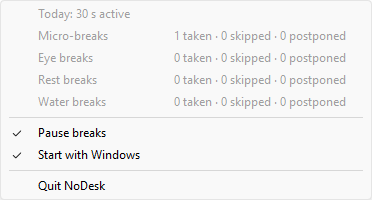
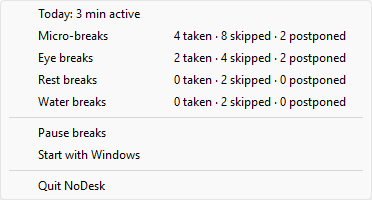
docs(site): show the current break screens and tray menu
Screenshots on the landing page and in the README now come from the final
build: the eye and micro pair, a rest break, three kinds sharing one screen
and the full-contrast tray menu.

diff --git a/site/index.html b/site/index.html
@@ -65,9 +65,9 @@
       <section id="screens" class="wrap">
         <h2>What you see</h2>
         <div class="gallery">
-          <figure class="shot"><img src="/shots/rest.png" width="1040" height="585" loading="lazy" alt="Hourly rest break merged with micro and eye breaks, with a tip to stand up and walk" /><figcaption>Rest break, hourly. Covers micro and eye breaks due at the same time.</figcaption></figure>
-          <figure class="shot"><img src="/shots/water.png" width="1040" height="585" loading="lazy" alt="Water break with a tip to drink some water" /><figcaption>Water break, every 45 minutes of work.</figcaption></figure>
-          <figure class="shot menu"><img src="/shots/tray-menu.png" width="372" height="200" loading="lazy" alt="Tray menu with today's active time, breaks per kind, Pause breaks and Start with Windows" /><figcaption>Right-click the tray icon for today's stats, Pause and Start with Windows.</figcaption></figure>
+          <figure class="shot"><img src="/shots/rest.png" width="1040" height="585" loading="lazy" alt="Rest break: five minute countdown with a tip to walk and stretch your legs" /><figcaption>Rest break, every hour of work: five minutes away from the desk.</figcaption></figure>
+          <figure class="shot"><img src="/shots/water.png" width="1040" height="585" loading="lazy" alt="Eye, micro and water breaks due together on one screen, each with its own tip" /><figcaption>Breaks due together share one screen, each kind in its own colour.</figcaption></figure>
+          <figure class="shot menu"><img src="/shots/tray-menu.png" width="372" height="200" loading="lazy" alt="Tray menu with today's active time, breaks taken, skipped and postponed per kind, Pause breaks and Start with Windows" /><figcaption>Right-click the tray icon for today's stats, Pause and Start with Windows.</figcaption></figure>
         </div>
       </section>
 
